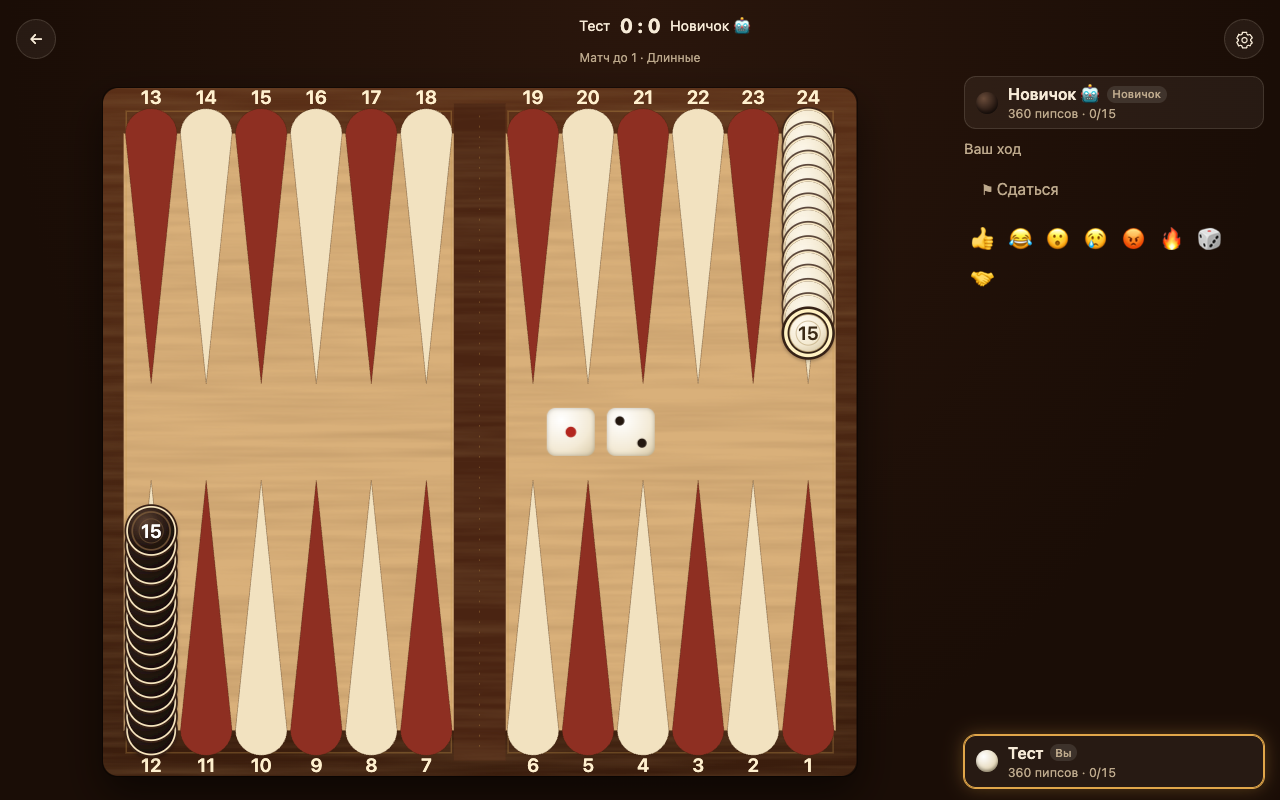
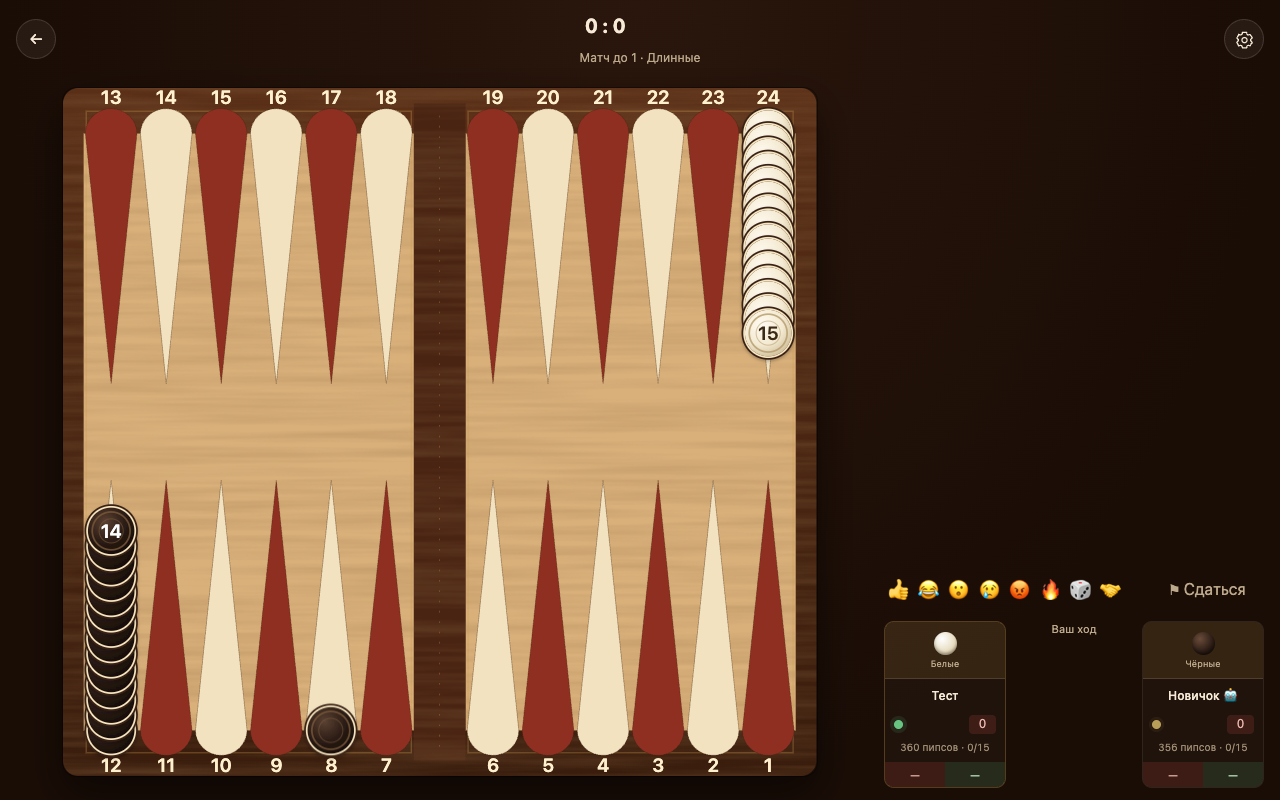
feat(web): desktop HUD matches phone (player | controls | opponent), chat panel above it

diff --git a/apps/web/src/screens/Game.tsx b/apps/web/src/screens/Game.tsx
@@ -35,8 +35,7 @@ interface Pending {
   ts: TurnState;
 }
 
-function useCompactLayout(): boolean {
-  const query = '(orientation: portrait) and (max-width: 767px)';
+function useCompactLayout(query = '(orientation: portrait) and (max-width: 767px)'): boolean {
   const [compact, setCompact] = useState(() => matchMedia(query).matches);
   useEffect(() => {
     const media = matchMedia(query);
@@ -74,6 +73,9 @@ function stepSound(s: Step) {
 export function GameScreen({ onExit }: { onExit: () => void }) {
   const T = useT();
   const compact = useCompactLayout();
+  // desktop/tablet-landscape: board left, phone-style HUD + chat in a side column (see styles.css)
+  const wide = useCompactLayout('(min-width: 900px) and (min-height: 521px)') && !compact;
+  const hud = compact || wide;
   const [moreOpen, setMoreOpen] = useState(false);
   const g = useGame();
   const st = useSettings();
@@ -397,7 +399,7 @@ export function GameScreen({ onExit }: { onExit: () => void }) {
     const p = g.players[c];
     const clk = clockFor(c);
     const active = act === c;
-    if (compact) {
+    if (hud) {
       const running = act === c && clocks?.turnStartedAt != null;
       const elapsed = running ? Math.max(0, serverNow - clocks!.turnStartedAt!) : 0;
       const bankLeft = clocks?.bank ? clocks.bank[c] - (running ? Math.max(0, elapsed - clocks.moveTimerMs) : 0) : null;
@@ -453,18 +455,18 @@ export function GameScreen({ onExit }: { onExit: () => void }) {
           ←
         </button>
         <div className="score">
-          {!compact && <span>{nameOf(0)}</span>}
+          {!hud && <span>{nameOf(0)}</span>}
           <b>
             {m.score[0]} : {m.score[1]}
           </b>
-          {!compact && <span>{nameOf(1)}</span>}
+          {!hud && <span>{nameOf(1)}</span>}
           <small>
             {T.matchLength} {m.settings.matchLength} · {variant === 'long' ? T.long : T.short}
             {m.crawford ? ` · ${T.crawford}` : ''}
           </small>
         </div>
         <div className="game-top-actions">
-          {g.mode === 'online' && !compact && <button className="icon-btn" onClick={() => setChatOpen((open) => !open)} aria-label={T.chat}>
+          {g.mode === 'online' && !hud && <button className="icon-btn" onClick={() => setChatOpen((open) => !open)} aria-label={T.chat}>
             💬{g.chat.length > 0 && !chatOpen && <i className="dot" />}
           </button>}
           <button className="icon-btn settings-button" aria-label={T.settings} onClick={() => setSettingsOpen(true)}>
@@ -476,7 +478,7 @@ export function GameScreen({ onExit }: { onExit: () => void }) {
         </div>
       </header>
 
-      {!compact && playerBar(opp)}
+      {!hud && playerBar(opp)}
 
       <div className={'board-wrap' + (compact ? ' compact-board' : '')} style={{
         aspectRatio: `${boardWidth} / ${compact ? 1100 : 800}`,
@@ -531,7 +533,7 @@ export function GameScreen({ onExit }: { onExit: () => void }) {
             {!st.autoRoll && <button className="btn primary big" onClick={doRoll}>
               🎲 {T.roll}
             </button>}
-            {mayDouble && !doubled && !compact && (
+            {mayDouble && !doubled && !hud && (
               <button className="btn gold" onClick={() => { setDoubled(true); ctrl.double(); }}>
                 ×2 {T.double}
                 {st.autoRoll && <i className="countdown" style={{ ['--ms' as string]: `${DOUBLE_MS}ms` }} />}
@@ -637,13 +639,13 @@ export function GameScreen({ onExit }: { onExit: () => void }) {
         {g.conn !== 'open' && <div className="conn-banner">{g.conn === 'connecting' ? T.connecting : T.reconnecting}</div>}
       </div>
 
-      {!compact && playerBar(viewer, true)}
+      {!hud && playerBar(viewer, true)}
 
-      <div className={compact ? 'mobile-hud' : 'desktop-hud'}>
-      {compact && playerBar(viewer, true)}
+      <div className={hud ? 'mobile-hud' : 'desktop-hud'}>
+      {hud && playerBar(viewer, true)}
       <div className="controls">
-        {compact && <div className="quick-social">
-          {g.mode === 'online' && <button className="btn quick-chat" onClick={() => setChatOpen((open) => !open)} aria-label={T.chat}>
+        {hud && <div className="quick-social">
+          {g.mode === 'online' && compact && <button className="btn quick-chat" onClick={() => setChatOpen((open) => !open)} aria-label={T.chat}>
             💬 {T.chat}{g.chat.length > 0 && !chatOpen && <i className="dot" />}
           </button>}
           <div className="quick-reactions">
@@ -673,19 +675,19 @@ export function GameScreen({ onExit }: { onExit: () => void }) {
             {T.claimWin}
           </button>
         )}
-        {!compact && m.phase !== 'gameover' && m.phase !== 'matchover' && (g.mode === 'local' || act !== null) && (
+        {!hud && m.phase !== 'gameover' && m.phase !== 'matchover' && (g.mode === 'local' || act !== null) && (
           <button className="btn subtle" onClick={() => setConfirmResign(true)}>
             ⚑ {T.resign}
           </button>
         )}
-        {compact && mayDouble && !doubled && <button className="btn gold" onClick={() => { setDoubled(true); ctrl.double(); }}>
+        {hud && mayDouble && !doubled && <button className="btn gold" onClick={() => { setDoubled(true); ctrl.double(); }}>
           ×2 {T.double}
           {st.autoRoll && <i className="countdown" style={{ ['--ms' as string]: `${DOUBLE_MS}ms` }} />}
         </button>}
         {compact && <button className="icon-btn" aria-label={T.more} onClick={() => setMoreOpen((open) => !open)}>⋯</button>}
       </div>
 
-      {compact && playerBar(opp)}
+      {hud && playerBar(opp)}
       </div>
 
       {(!compact || moreOpen) && <div className={compact ? 'phone-more' : 'desk-more'}>
@@ -699,9 +701,10 @@ export function GameScreen({ onExit }: { onExit: () => void }) {
       </div>
 
       {compact && <button className="btn subtle" onClick={() => { setMoreOpen(false); setConfirmResign(true); }}>⚑ {T.resign}</button>}
+      {wide && m.phase !== 'gameover' && m.phase !== 'matchover' && (g.mode === 'local' || act !== null) && <button className="btn subtle resign" onClick={() => setConfirmResign(true)}>⚑ {T.resign}</button>}
       </div>}
 
-      {chatOpen && g.mode === 'online' && (
+      {(chatOpen || wide) && g.mode === 'online' && (
         <aside className="chat">
           <div className="chat-head">
             <b>{T.chat}</b>

diff --git a/apps/web/src/styles.css b/apps/web/src/styles.css
@@ -937,22 +937,20 @@ input:focus {
 .game-settings .seg:has(button:nth-child(4)) { display: grid; grid-template-columns: repeat(2, minmax(0, 1fr)); }
 .game-settings .seg button { min-width: 0; }
 
-/* Desktop/landscape: board left (as tall as the viewport allows), players, controls and chat in a side column. */
+/* Desktop/landscape: board left (as tall as the viewport allows); right column = chat on top, phone-style HUD (player | controls | opponent) at the bottom. */
 @media (min-width: 900px) and (min-height: 521px) {
   .game:not(.phone-game) {
-    display: grid; grid-template-columns: minmax(0, 1fr) 300px; grid-template-rows: auto auto auto auto minmax(0, 1fr) auto;
-    grid-template-areas: 'top top' 'board opp' 'board ctl' 'board emo' 'board chat' 'board me';
+    display: grid; grid-template-columns: minmax(0, 1fr) 380px; grid-template-rows: auto minmax(0, 1fr) auto auto;
+    grid-template-areas: 'top top' 'board chat' 'board more' 'board hud';
     align-content: center; justify-items: stretch; gap: 10px 20px; width: 100%; max-width: 1500px; margin: 0 auto; padding: max(12px, env(safe-area-inset-top)) 16px max(12px, env(safe-area-inset-bottom));
   }
   .game:not(.phone-game) .game-top { grid-area: top; max-width: none; padding-top: 0; }
   .game:not(.phone-game) .board-wrap { grid-area: board; align-self: center; justify-self: center; width: min(100%, calc((100dvh - 112px) * var(--ar))) !important; }
-  .game:not(.phone-game) .pbar { max-width: none; }
-  .game:not(.phone-game) .pbar:not(.bottom) { grid-area: opp; }
-  .game:not(.phone-game) .pbar.bottom { grid-area: me; align-self: end; }
-  .game:not(.phone-game) .controls { grid-area: ctl; flex-wrap: wrap; justify-content: flex-start; gap: 8px; }
-  .game:not(.phone-game) .controls .status { flex: 1 0 100%; margin: 0; }
-  .game:not(.phone-game) .desk-more { grid-area: emo; }
-  .game:not(.phone-game) .emoji-bar { flex-wrap: wrap; justify-content: flex-start; }
-  .game:not(.phone-game) .chat { grid-area: chat; position: static; width: auto; height: auto; min-height: 0; max-height: 100%; box-shadow: none; animation: none; }
+  .game:not(.phone-game) .mobile-hud { grid-area: hud; grid-template-columns: minmax(0, 1fr) 120px minmax(0, 1fr); margin-top: 0; }
+  .game:not(.phone-game) .desk-more { grid-area: more; display: flex; align-items: center; justify-content: space-between; gap: 8px; }
+  .game:not(.phone-game) .emoji-bar { flex-wrap: nowrap; justify-content: flex-start; }
+  .game:not(.phone-game) .emoji-bar button { font-size: 1.15rem; padding: .15em .2em; }
+  .game:not(.phone-game) .chat { grid-area: chat; align-self: end; min-height: 240px; max-height: 100%; position: static; width: auto; height: auto; min-height: 0; box-shadow: none; animation: none; }
+  .game:not(.phone-game) .chat-head .icon-btn { display: none; }
+  .game:not(.phone-game) .controls .quick-social { display: none; }
 }
-@media (min-width: 900px) and (min-height: 521px) { .game:not(.phone-game) .controls .btn.subtle { padding-left: 0; } }
